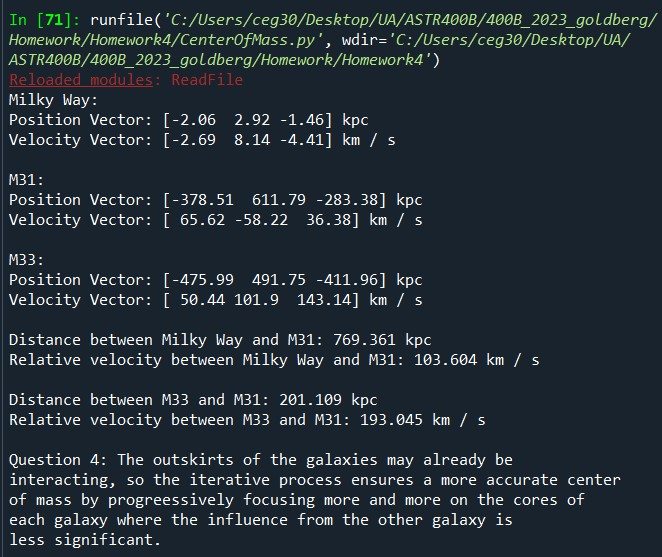
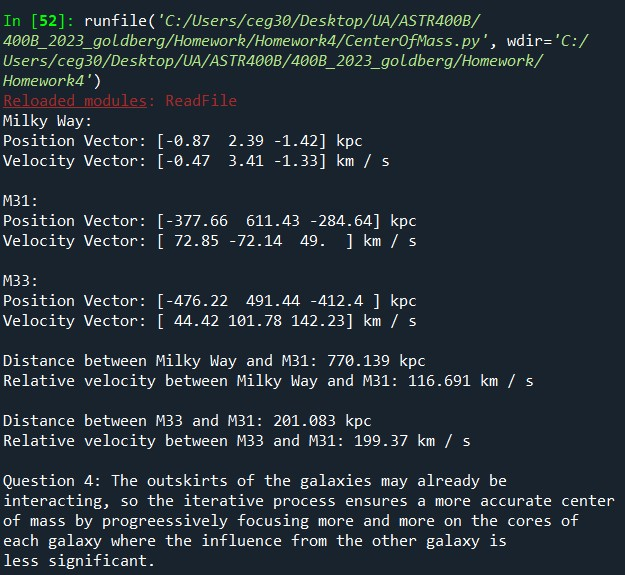
update HW4

diff --git a/Homework/Homework4/CenterOfMass.py b/Homework/Homework4/CenterOfMass.py
@@ -36,7 +36,7 @@ class CenterOfMass:
         '''
      
         # read data in the given file using Read
-        self.data, self.yime, self.total = Read(filename)                                                                                             
+        self.data, self.time, self.total = Read(filename)                                                                                             
 
         #create an array to store indexes of particles of desired Ptype                                
         self.index = np.where(self.data['type'] == ptype)
@@ -123,8 +123,8 @@ class CenterOfMass:
         # and the first guess at COM position
         # write your own code below
         x_new = self.x-x_COM
-        y_new = self.y-x_COM
-        z_new = self.z-x_COM
+        y_new = self.y-y_COM
+        z_new = self.z-z_COM
         r_new = np.sqrt(x_new**2 + y_new**2 + z_new**2)
 
         # find the max 3D distance of all particles from the guessed COM                                               
@@ -142,12 +142,13 @@ class CenterOfMass:
         while (change > delta):
             # select all particles within the reduced radius (starting from original x,y,z, m)
             # write your own code below (hints, use np.where)
-            index2 = np.where(np.sqrt((self.data['x']-x_COM)**2 + (self.data['y']-y_COM)**2 + (self.data['z']-z_COM)**2) < r_max)
-            x2 = self.data['x'][index2]
-            y2 = self.data['y'][index2]
-            z2 = self.data['z'][index2]
-            m2 = self.data['m'][index2]
-
+            index2 = np.where(r_new < r_max)
+            
+            x2 = self.x[index2]
+            y2 = self.y[index2]
+            z2 = self.z[index2]
+            m2 = self.m[index2]
+      
             # Refined COM position:                                                                                    
             # compute the center of mass position using                                                                
             # the particles in the reduced radius
@@ -191,7 +192,7 @@ class CenterOfMass:
         # and then return the COM positon vector
         # write your own code below
         
-        p_COM=np.round(p_COM*u.kpc,2)
+        p_COM=np.round(p_COM,2)*u.kpc
         
         return p_COM
         
@@ -218,25 +219,25 @@ class CenterOfMass:
         
         # the max distance from the center that we will use to determine 
         #the center of mass velocity                   
-        rv_max = 15.0
+        rv_max = 15.0*u.kpc
 
         # determine the position of all particles relative to the center of mass position (x_COM, y_COM, z_COM)
         # write your own code below
         xV = self.x*u.kpc-x_COM
         yV = self.y*u.kpc-y_COM
         zV = self.z*u.kpc-z_COM
-        rV = np.sqrt(xV**2 + yV**2 + zV**2)*u.kpc
+        rV = np.sqrt(xV**2 + yV**2 + zV**2)
         
         # determine the index for those particles within the max radius
         # write your own code below
-        indexV = np.where(np.sqrt((self.data['x']-x_COM.value)**2) + (self.data['y']-y_COM.value)**2 + (self.data['z']-z_COM.value)**2 < rv_max)
+        indexV = np.where(rV < rv_max)
         
         # determine the velocity and mass of those particles within the mas radius
         # write your own code below
-        vx_new = self.data['vx'][indexV]
-        vy_new = self.data['vy'][indexV]
-        vz_new = self.data['vz'][indexV]
-        m_new =  self.data['m'][indexV]
+        vx_new = self.vx[indexV]
+        vy_new = self.vy[indexV]
+        vz_new = self.vz[indexV]
+        m_new =  self.m[indexV]
         
         # compute the center of mass velocity using those particles
         # write your own code below
